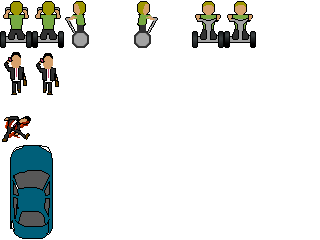
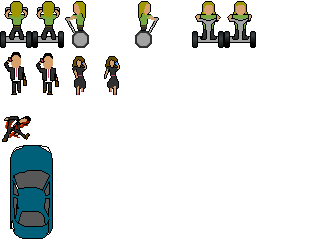
[segfault] add woman, grenades

diff --git a/ex/segfault/scripts/entities/BusinessWoman.js b/ex/segfault/scripts/entities/BusinessWoman.js
@@ -1,0 +1,135 @@
+(function (Ω) {
+
+	"use strict";
+
+	var BusinessWoman = Ω.Entity.extend({
+
+		w: 32,
+		h: 32,
+		dir: 1,
+		speed: 2,
+
+		life: 400,
+		remove: false,
+
+		state: null,
+
+		sheet: new Ω.SpriteSheet("res/entities.png", 32, 48),
+
+		init: function (start, dir, map) {
+
+			this.map = map;
+
+			this.dir = dir;
+
+			this.x = start[0];
+			this.y = start[1];
+
+			this.setDir(dir);
+
+			this.state = new Ω.utils.State("RUNNING");
+
+		},
+
+		setDir: function (dir) {
+
+			if (!dir) {
+				dir = (Math.random() * 7 | 0 ) + 1;
+			}
+
+			var x = [0, this.speed / Math.sqrt(2), this.speed, this.speed / Math.sqrt(2) , 0, -(this.speed / Math.sqrt(2)), -this.speed, -(this.speed / Math.sqrt(2))],
+				y = [-this.speed, -(this.speed / Math.sqrt(2)), 0, this.speed / Math.sqrt(2), this.speed, this.speed / Math.sqrt(2), 0, -(this.speed / Math.sqrt(2))];
+
+			this.xSpeed = x[dir - 1];
+			this.ySpeed = y[dir - 1];
+
+		},
+
+		tick: function () {
+
+			this.state.tick();
+
+			var remove = false;
+
+			switch (this.state.get()) {
+			case "RUNNING":
+				remove = !(this.tick_RUNNING());
+				break;
+			case "DYING":
+				if (this.state.count > 40) {
+					this.state.set("DEAD");
+				}
+				break;
+			case "DEAD":
+				remove = true;
+				break;
+			}
+
+			return !remove;
+
+		},
+
+		tick_RUNNING: function () {
+
+			var xo = 0,
+				yo = 0;
+
+			this.x += this.xSpeed;
+			this.y += this.ySpeed;
+
+			if (this.x < 0 || this.y < 0) {
+				this.setDir();
+			}
+
+			if (this.x > this.map.w || this.y > this.map.h) {
+				this.remove = true;
+			}
+
+			return !(this.remove);
+
+		},
+
+		hit: function (by) {
+
+			if (by instanceof Bullet) {
+
+				if (this.state.is("RUNNING")) {
+					this.state.set("DYING");
+				}
+
+			}
+
+		},
+
+		hitSegue: function () {
+
+			if (this.state.is("RUNNING")) {
+				this.state.set("DYING");
+			}
+
+		},
+
+		render: function (gfx) {
+
+			var c = gfx.ctx,
+				xf = 2,
+				yf = 0;
+
+			if (this.state.is("RUNNING")) {
+				xf = ((Ω.utils.now() / 200 | 0) % 2) + 2;
+				yf = 1
+			} else {
+				xf = 2;
+				yf = 2;
+			}
+
+
+			this.sheet.render(gfx, xf, yf, this.x, this.y);
+
+		}
+
+	});
+
+	window.BusinessWoman = BusinessWoman;
+
+}(Ω));

diff --git a/ex/segfault/scripts/entities/Grenade.js b/ex/segfault/scripts/entities/Grenade.js
@@ -1,0 +1,68 @@
+(function (Ω) {
+
+	"use strict";
+
+	var Grenade = Ω.Entity.extend({
+
+		w: 8,
+		h: 8,
+		dir: 1,
+		speed: 10,
+
+		remove: false,
+
+		init: function (start, dir, map) {
+
+			this.dir = dir;
+			this.map = map;
+
+			this.x = start[0];
+			this.y = start[1];
+
+			var x = [0, this.speed / Math.sqrt(2), this.speed, this.speed / Math.sqrt(2) , 0, -(this.speed / Math.sqrt(2)), -this.speed, -(this.speed / Math.sqrt(2))],
+				y = [-this.speed, -(this.speed / Math.sqrt(2)), 0, this.speed / Math.sqrt(2), this.speed, this.speed / Math.sqrt(2), 0, -(this.speed / Math.sqrt(2))];
+
+			this.xSpeed = x[dir - 1];
+			this.ySpeed = y[dir - 1];
+
+		},
+
+		tick: function () {
+
+			var xo = 0,
+				yo = 0;
+
+			this.x += this.xSpeed;
+			this.y += this.ySpeed;
+
+			if (this.x > this.map.w || this.x < 0 || this.y < 0 || this.y > this.map.h) {
+				return false;
+			}
+
+			return !(this.remove);
+		},
+
+		hit: function (by) {
+
+			this.remove = true;
+
+		},
+
+		render: function (gfx) {
+
+			var c = gfx.ctx;
+
+			c.fillStyle = "red";
+			c.strokeStyle = "#fff";
+			c.beginPath();
+			c.arc(this.x, this.y, 5, 0, Math.PI * 2, true)
+			c.stroke();
+			c.fill();
+
+		}
+
+	});
+
+	window.Grenade = Grenade;
+
+}(Ω));

diff --git a/ex/segfault/index.html b/ex/segfault/index.html
@@ -50,7 +50,9 @@
 		<script src="scripts/screens/LevelScreen.js"></script>
 		<script src="scripts/entities/Car.js"></script>
 		<script src="scripts/entities/BusinessMan.js"></script>
+		<script src="scripts/entities/BusinessWoman.js"></script>
 		<script src="scripts/entities/Bullet.js"></script>
+		<script src="scripts/entities/Grenade.js"></script>
 		<script src="scripts/entities/Player.js"></script>
 		<script src="scripts/SegfaultGame.js"></script>
 

diff --git a/ex/segfault/scripts/screens/LevelScreen.js b/ex/segfault/scripts/screens/LevelScreen.js
@@ -75,8 +75,9 @@
 
 			// Add some random enemies
 			if (Math.random() < 0.01) {
+				var b = Math.random() < 0.5 ? BusinessMan : BusinessWoman
 				this.baddies.push(
-					new BusinessMan([Math.random() * 400, Math.random() * 400], (Math.random() * 7 | 0) + 1, this.map)
+					new b([Math.random() * 400, Math.random() * 400], (Math.random() * 7 | 0) + 1, this.map)
 				);
 			}
 

diff --git a/ex/segfault/scripts/entities/Player.js b/ex/segfault/scripts/entities/Player.js
@@ -69,6 +69,13 @@
 					)
 					this.fireTime = 5;
 				}
+			} else if (Ω.input.isDown("launch")) {
+				if (this.fireTime < 0) {
+					this.bullets.push(
+						new Grenade([this.x + this.w / 2 - 3, this.y + 5], this.dir, this.map)
+					)
+					this.fireTime = 5;
+				}
 			}
 
 			// Slow down if moving diagonally

diff --git a/ex/segfault/scripts/SegfaultGame.js b/ex/segfault/scripts/SegfaultGame.js
@@ -16,6 +16,7 @@
 
 			Ω.input.bind([
 				["space", "space"],
+				[67, "launch"],
 				["escape", "escape"],
 				["left", "left"],
 				["right", "right"],

diff --git a/README.md b/README.md
@@ -26,6 +26,7 @@ Simple framework for me to make 2D canvas-based games. Checkout the code in /ex 
 - State machine helper
 - Font plotter (very specific! fix this)
 - "Tiled" map editor level support
+- Repeating maps, with parallax
 
 Infinite amount of things to add/fix. Stay tuned as I slowly add them. Highest priority and WIP:
 
@@ -44,7 +45,6 @@ Lower priority:
 - Gfx: Fullscreen canvas
 - Gfx: fullscreen resizing
 - Math: add smoothstep/lerp helper
-- Map: parallax with repeating background
 - Support: FPS count
 - Support: Work in Ejecta
 - Support: Mobile compatibility
